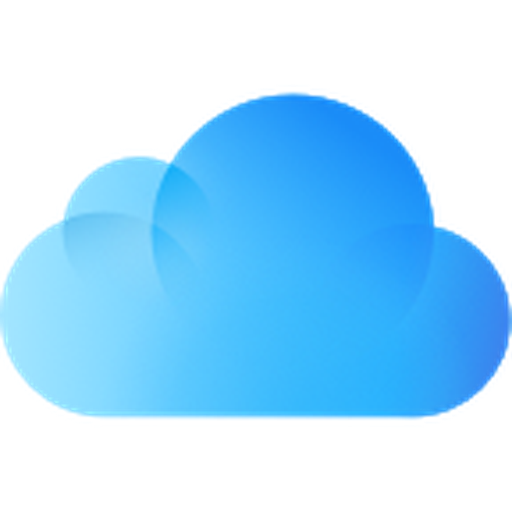
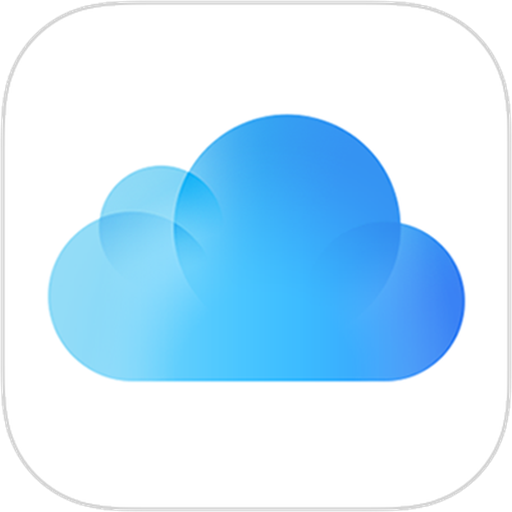
🎨 新增 4 个品牌图标 + 重命名中国移动云盘 + 替换 iCloud（用户提供素材）
新增品牌（图标由用户提供，按规范 `render()`：补方 → 512 LANCZOS → 乘 r=115 遮罩 → oxipng 无损压缩）
- Ubisoft（`icons/Game/Ubisoft/Ubisoft.png`）：育碧，独立图根（无 parent_brand）
- RockstarGames（`icons/Game/RockstarGames/RockstarGames.png`）：`parent_brand = TakeTwo`，
  Take-Two Interactive 作为「无图标父品牌」登记进 `parent_brands_without_icon`
  （对齐既有先例 `Steam` → `Valve`）
- TaobaoShangou（`icons/Alibaba/Taobao/TaobaoShangou/TaobaoShangou.png`）：淘宝闪购，
  `parent_brand = Taobao`；物理层级按同分类中间父品牌递归（Taobao 非 graph root 直系子品牌）
- MeituanFoodDelivery（`icons/Shopping/MeituanFoodDelivery/MeituanFoodDelivery.png`）：美团外卖，
  `parent_brand = Meituan`；**平铺**——`expected_icon_path()` §6 规则：graph root 的直系子品牌不嵌套
  （对齐 Apple → AppleMusic 先例；生成器在此处先行报错，路径已按引擎推导修正）

重命名（技术 ID 对齐官方英文名）
- `ChinaMobileDisk` → `ChinaMobileCloudDrive`：id / 目录 / 文件名同步；display_name 不变（中国移动云盘）
- 旧 ID 登记进 `scripts/legacy_map.py`（唯一来源）→ CI 第 10 组「Legacy paths」据此拦截残留引用
- **公开 URL 变化**：`icons/ChinaMobile/ChinaMobileDisk/ChinaMobileDisk.png`
  → `icons/ChinaMobile/ChinaMobileCloudDrive/ChinaMobileCloudDrive.png`
  （已记录到 `docs/migrations/url-migration.md`，下游 mihomo-rules 需同步）

资产替换（URL 不变）
- `icons/Apple/iCloud/iCloud.png`：换用 Apple 官方 squircle 资源。原资产是**无底云朵字形**
  （alpha>0 占比 50.5%，形态与全库统一口径不符）；新资产为官方圆角底 + 云朵，
  规范化后 512×512 RGBA / 遮罩外 alpha = 0
- 中国移动云盘同为设计更新：原为无底字形（占比 43.8%），新为白底 + 蓝色云字形

素材来源规格（已记录，便于将来换更高分辨率源）
- Ubisoft 512×512 PNG（自带 r≈76 圆角，遮罩后无透明缺口）
- Rockstar 900×900 PNG（满幅渐变）→ 512
- iCloud 400×400 PNG（Apple squircle）→ 512；中国移动云盘 1418×1419 PNG → 512
[…]

diff --git a/tests/test_phase3_hardening.py b/tests/test_phase3_hardening.py
@@ -296,6 +296,17 @@ class QualityNotesStatsTests(RepoFixture):
     def test_baseline_passes(self):
         self.assertEqual(self.validator().returncode, 0)
 
+    def _counts(self):
+        """当前仓库的 (PNG 数, RGBA 数)——夹具断言必须由磁盘推导，不得硬编码统计值。"""
+        files = list((self.repo / 'icons').rglob('*.png'))
+        rgba = 0
+        for f in files:
+            with open(f, 'rb') as fh:
+                head = fh.read(26)
+            if len(head) == 26 and head[25] == 6:
+                rgba += 1
+        return len(files), rgba
+
     def _patch(self, old, new):
         q = self.repo / NOTES_REL
         t = q.read_text(encoding='utf-8')
@@ -303,11 +314,14 @@ class QualityNotesStatsTests(RepoFixture):
         return self.write(NOTES_REL, t.replace(old, new))
 
     def test_count_drift_fails(self):
-        self._patch('**294 / 294 = 512×512**', '**293 / 293 = 512×512**')
+        n, _ = self._counts()
+        self._patch('**%d / %d = 512×512**' % (n, n), '**%d / %d = 512×512**' % (n - 1, n - 1))
         self.assert_validation_fails('尺寸行')
 
     def test_mode_drift_fails(self):
-        self._patch('RGBA 294（其余色型 0）', 'RGBA 294（其余色型 3）')
+        n, rgba = self._counts()
+        self._patch('RGBA %d（其余色型 %d）' % (rgba, n - rgba),
+                    'RGBA %d（其余色型 %d）' % (rgba, (n - rgba) + 3))
         self.assert_validation_fails('模式分布行')
 
     def test_volume_drift_fails(self):
@@ -328,17 +342,20 @@ class QualityNotesStatsTests(RepoFixture):
 
     def test_deleted_stat_line_makes_generator_fail(self):
         """统计行被删除 ⇒ 生成器必须失败（generated contract 不再静默通过）。"""
-        self._patch('| 尺寸 | **294 / 294 = 512×512**', '| 尺寸 | 见上')
+        n, _ = self._counts()
+        self._patch('| 尺寸 | **%d / %d = 512×512**' % (n, n), '| 尺寸 | 见上')
         self.assert_run_fails(self.updater(), '尺寸行')
 
     def test_generator_repairs_drift(self):
-        self._patch('**294 / 294 = 512×512**', '**1 / 1 = 512×512**')
-        self._patch('RGBA 294（其余色型 0）', 'RGBA 0（其余色型 294）')
+        n, rgba = self._counts()
+        self._patch('**%d / %d = 512×512**' % (n, n), '**1 / 1 = 512×512**')
+        self._patch('RGBA %d（其余色型 %d）' % (rgba, n - rgba),
+                    'RGBA 0（其余色型 %d）' % n)
         res = self.updater()
         self.assertEqual(res.returncode, 0, res.stdout + res.stderr)
         fixed = (self.repo / NOTES_REL).read_text(encoding='utf-8')
-        self.assertIn('**294 / 294 = 512×512**', fixed)
-        self.assertIn('RGBA 294（其余色型 0）', fixed)
+        self.assertIn('**%d / %d = 512×512**' % (n, n), fixed)
+        self.assertIn('RGBA %d（其余色型 %d）' % (rgba, n - rgba), fixed)
         self.assertEqual(self.validator().returncode, 0)
 
 

diff --git a/tests/test_hardening.py b/tests/test_hardening.py
@@ -156,13 +156,14 @@ class LegacyMapTests(unittest.TestCase):
         segs = set(legacy_path_segments())
         for s in ('DevOps', 'Drive', 'General', 'Tool'):
             self.assertIn(s, segs, '历史分类目录必须在 legacy map 中')
-        for s in ('PeacockTV', 'Podcasts', 'Twitter'):
+        for s in ('ChinaMobileDisk', 'PeacockTV', 'Podcasts', 'Twitter'):
             self.assertIn(s, segs, '历史品牌 ID 必须在 legacy map 中')
         self.assertNotIn('xAI', segs, 'xAI 已是当前 canonical ID，不得登记为 legacy 名')
         pats = set(legacy_scan_patterns())
         self.assertIn('icons/xAI/', pats, '旧 xAI 目录必须以完整前缀登记')
         self.assertNotIn('/xAI/', pats, '/xAI/ 段在 canonical 路径中合法，不得作为模式')
-        self.assertEqual(legacy_ids(), {'PeacockTV', 'Podcasts', 'Twitter'})
+        # 注册表只允许显式扩容：新增重命名必须同步改这一行（有意保留的摩擦）
+        self.assertEqual(legacy_ids(), {'ChinaMobileDisk', 'PeacockTV', 'Podcasts', 'Twitter'})
 
     def test_canonical_id_is_not_legacy(self):
         """§34：current canonical ID 绝不与 legacy ID 重叠。"""

diff --git a/scripts/legacy_map.py b/scripts/legacy_map.py
@@ -34,6 +34,7 @@ LEGACY_BRAND_IDS = {
     'PeacockTV': 'Peacock',
     'Podcasts': 'ApplePodcasts',
     'Twitter': 'X',
+    'ChinaMobileDisk': 'ChinaMobileCloudDrive',  # 2026-10-02 技术 ID 对齐官方名
 }
 
 # 旧目录前缀：旧目录名与当前 canonical 品牌 ID 同形，必须用完整前缀登记

diff --git a/README.md b/README.md
@@ -17,8 +17,8 @@
   <img src="https://img.shields.io/github/stars/Hawaiine/Oasisic-Icons?style=flat-square" alt="Stars">
   <img src="https://img.shields.io/github/last-commit/Hawaiine/Oasisic-Icons?style=flat-square" alt="Last Commit">
   <img src="https://img.shields.io/github/repo-size/Hawaiine/Oasisic-Icons?style=flat-square" alt="Repo Size">
-  <img src="https://img.shields.io/badge/icons-294-blue?style=flat-square" alt="Icons Count">
-  <img src="https://img.shields.io/badge/brands-294-green?style=flat-square" alt="Brands Count">
+  <img src="https://img.shields.io/badge/icons-298-blue?style=flat-square" alt="Icons Count">
+  <img src="https://img.shields.io/badge/brands-298-green?style=flat-square" alt="Brands Count">
   <img src="https://img.shields.io/badge/categories-42-orange?style=flat-square" alt="Categories Count">
 </p>
 
@@ -35,11 +35,11 @@
 
 ## 📖 简介 / Introduction
 
-**Oasisic-Icons** 是一套专为代理工具设计的策略组图标合集：当前共 **294** 个 PNG 图标，覆盖 **294** 个品牌，归入 **42** 个一级分类（其中 41 个活跃，`Finance` 为预留空分类）。
+**Oasisic-Icons** 是一套专为代理工具设计的策略组图标合集：当前共 **298** 个 PNG 图标，覆盖 **298** 个品牌，归入 **42** 个一级分类（其中 41 个活跃，`Finance` 为预留空分类）。
 
-**仓库统计口径 / Repository metrics**：SSOT entities **294** · canonical entities **235** · icon-backed entities **294** · PNG **294** · pending no-icon entities **0** · categories **42** · ecosystems **17**
+**仓库统计口径 / Repository metrics**：SSOT entities **298** · canonical entities **239** · icon-backed entities **298** · PNG **298** · pending no-icon entities **0** · categories **42** · ecosystems **17**
 
-本项目为独立图标仓库，当前 294 个图标均为 512×512 PNG（RGBA 模式），适配 Surge、Loon、Clash Meta / Mihomo、Stash、Quantumult X、Egern 等主流代理客户端。
+本项目为独立图标仓库，当前 298 个图标均为 512×512 PNG（RGBA 模式），适配 Surge、Loon、Clash Meta / Mihomo、Stash、Quantumult X、Egern 等主流代理客户端。
 
 > **画质规范（贡献与替换标准）**：512×512 方形 PNG，RGBA 模式，Apple 风格 squircle 圆角（圆角半径 ≈ 115px / 约 22.4%），保留原始底色。
 > 仓库内图标按该规范维护，均为 512×512、RGBA、保留原始底色，经 `scripts/optimize-icons.py` 无损重压缩；少量历史圆角边缘遗留项待处理，明细与遗留项见 [`docs/references/icon-quality-notes.md`](docs/references/icon-quality-notes.md)。
@@ -182,7 +182,7 @@ static=Netflix, HK, TW, JP, SG, img-url=https://raw.githubusercontent.com/Hawaii
 | 分类 | 说明 | 品牌数 | 图标数 |
 |---|---|---:|---:|
 | 🤖 AI | 人工智能服务与模型 | 11 | 11 |
-| 🏢 Alibaba | 阿里巴巴生态 | 9 | 9 |
+| 🏢 Alibaba | 阿里巴巴生态 | 10 | 10 |
 | 📦 Amazon | 亚马逊生态 | 6 | 6 |
 | 🍎 Apple | 苹果生态 | 13 | 13 |
 | 🔍 Baidu | 百度生态 | 4 | 4 |
@@ -198,7 +198,7 @@ static=Netflix, HK, TW, JP, SG, img-url=https://raw.githubusercontent.com/Hawaii
 | 📚 Education | 教育与学习平台 | 2 | 2 |
 | 💰 Finance | 金融理财 | 0 | 0 |
 | 📱 Meta | Meta 生态 | 6 | 6 |
-| 🎮 Game | 游戏平台与服务 | 3 | 3 |
+| 🎮 Game | 游戏平台与服务 | 5 | 5 |
 | 🔎 Google | Google 服务与生态 | 12 | 12 |
 | 🔌 Hardware | 硬件与消费电子设备 | 8 | 8 |
 | 🏥 Health | 健康与运动 | 1 | 1 |
@@ -212,7 +212,7 @@ static=Netflix, HK, TW, JP, SG, img-url=https://raw.githubusercontent.com/Hawaii
 | 💳 Payment | 支付与金融交易 | 5 | 5 |
 | ☎ PCCW | 电讯盈科生态 | 3 | 3 |
 | 🌐 Proxy | 代理线路与协议 | 4 | 4 |
-| 🛒 Shopping | 购物与电商 | 5 | 5 |
+| 🛒 Shopping | 购物与电商 | 6 | 6 |
 | 👥 Social | 社交媒体与社区 | 10 | 10 |
 | 🕹 Sony | 索尼生态 | 4 | 4 |
 | ⚡ Surge | Surge 应用图标 | 1 | 1 |
@@ -223,7 +223,7 @@ static=Netflix, HK, TW, JP, SG, img-url=https://raw.githubusercontent.com/Hawaii
 | 🧰 Utilities | 生产力工具与实用服务 | 9 | 9 |
 | 🎞 Warner Bros. Discovery | 华纳兄弟探索生态 | 3 | 3 |
 | 🛰 SpaceXAI | SpaceXAI 生态 | 4 | 4 |
-| **合计** | — | **294** | **294** |
+| **合计** | — | **298** | **298** |
 ### 分类体系原则（方案 C，2026-09-29）
 
 一级分类**不设中间层**：不设置 `Ecosystems / Services / Special` 等分类之上的中间层；分类之下的深度只由**真实父子层级**决定——直接父品牌是 category 根时保持 `icons/<分类>/<品牌>/`，直接父品牌本身也是中间品牌（同类且有自身图标）时嵌套为 `icons/<分类>/<中间父>/<品牌>/`。

diff --git a/docs/references/physical-hierarchy-audit.md b/docs/references/physical-hierarchy-audit.md
@@ -23,12 +23,13 @@ icons/<category>/<中间父…>/<id>/<id>.png           同类中间父品牌下
 | `Grok` | `xAI` | Grok → xAI → SpaceXAI | `SpaceXAI` | `icons/SpaceXAI/xAI/Grok/Grok.png` | `icons/SpaceXAI/xAI/Grok/Grok.png` | KEEP |
 | `Instagram` | `Facebook` | Instagram → Facebook → Meta | `Meta` | `icons/Meta/Facebook/Instagram/Instagram.png` | `icons/Meta/Facebook/Instagram/Instagram.png` | KEEP |
 | `Messenger` | `Facebook` | Messenger → Facebook → Meta | `Meta` | `icons/Meta/Facebook/Messenger/Messenger.png` | `icons/Meta/Facebook/Messenger/Messenger.png` | KEEP |
+| `TaobaoShangou` | `Taobao` | TaobaoShangou → Taobao → Alibaba | `Alibaba` | `icons/Alibaba/Taobao/TaobaoShangou/TaobaoShangou.png` | `icons/Alibaba/Taobao/TaobaoShangou/TaobaoShangou.png` | KEEP |
 | `Threads` | `Facebook` | Threads → Facebook → Meta | `Meta` | `icons/Meta/Facebook/Threads/Threads.png` | `icons/Meta/Facebook/Threads/Threads.png` | KEEP |
 | `WhatsApp` | `Facebook` | WhatsApp → Facebook → Meta | `Meta` | `icons/Meta/Facebook/WhatsApp/WhatsApp.png` | `icons/Meta/Facebook/WhatsApp/WhatsApp.png` | KEEP |
 | `YouTubeMusic` | `YouTube` | YouTubeMusic → YouTube → Google | `Google` | `icons/Google/YouTube/YouTubeMusic/YouTubeMusic.png` | `icons/Google/YouTube/YouTubeMusic/YouTubeMusic.png` | KEEP |
 | `iCloudPrivateRelay` | `iCloud` | iCloudPrivateRelay → iCloud → Apple | `Apple` | `icons/Apple/iCloud/iCloudPrivateRelay/iCloudPrivateRelay.png` | `icons/Apple/iCloud/iCloudPrivateRelay/iCloudPrivateRelay.png` | KEEP |
 
-多层关系（`child.parent_brand = P` 且 `P.parent_brand != null`）共 **7** 条。
+多层关系（`child.parent_brand = P` 且 `P.parent_brand != null`）共 **8** 条。
 
 ## 3. cross-category 父品牌（VALID_CROSS_CATEGORY，不迁移）
 
@@ -69,19 +70,20 @@ cross-category 关系共 **3** 条。
 | `SiriusXM` | `Pandora` |
 | `Snap` | `Snapchat` |
 | `TaiwanMobile` | `MyVideo` |
+| `TakeTwo` | `RockstarGames` |
 | `UNEXTHoldings` | `UNEXT` |
 | `Valve` | `Steam` |
 | `Xperi` | `TMDB` |
 | `ZhipuAI` | `GLM` |
 | `iCABLE` | `HOYTV` |
 
-无图标母公司共 **30** 个（登记于 `parent_brands_without_icon`）。
+无图标母公司共 **31** 个（登记于 `parent_brands_without_icon`）。
 
 ## 5. 生态矩阵（§47）
 
 | Ecosystem | Logical Root | Has Icon | Category | Canonical Descendants | Status |
 |:---|:---|:---|:---|:---|:---|
-| `Alibaba` | `Alibaba` | YES | `Alibaba` | 8 | Ecosystem |
+| `Alibaba` | `Alibaba` | YES | `Alibaba` | 9 | Ecosystem |
 | `Amazon` | `Amazon` | YES | `Amazon` | 5 | Ecosystem |
 | `Apple` | `Apple` | YES | `Apple` | 12 | Ecosystem |
 | `Baidu` | `Baidu` | YES | `Baidu` | 3 | Ecosystem |
@@ -103,8 +105,8 @@ cross-category 关系共 **3** 条。
 
 ## 6. 统计
 
-- canonical product brands：**235**
+- canonical product brands：**239**
 - canonical ecosystem entities：**1**
-- 物理父品牌节点：**26**
-- 深层嵌套品牌（路径 ≥ 5 段）：**7**
+- 物理父品牌节点：**28**
+- 深层嵌套品牌（路径 ≥ 5 段）：**8**
 - 生态根（含逻辑生态根）：**17**

diff --git a/docs/migrations/brand-migration.md b/docs/migrations/brand-migration.md
@@ -156,6 +156,24 @@
 | SINA | 新增（Social） | `icons/Social/SINA/SINA.png` | 新浪（Sina Corporation）公司品牌，用户提供的官方图标；白名单 `Sina` 移除，子品牌 Weibo 的 parent_brand 指向 SINA |
 | CATCHPLAYPlus | 重命名（原 CATCHPLAY） | `icons/Media/CATCHPLAY/CATCHPLAY.png` | `icons/Media/CATCHPLAYPlus/CATCHPLAYPlus.png` | 按全库 Plus 品牌命名惯例对齐（id/目录/文件名）；display_name 仍为「CATCHPLAY+」 |
 
+## 本轮增量：新增品牌与重命名（2026-10-02）
+
+> 4 个新增品牌（图标由用户提供，按规范 512×512 RGBA r=115 入库）+ 1 个技术 ID 重命名
+> （`ChinaMobileDisk` → `ChinaMobileCloudDrive`，目录/文件名同步）。**本轮不允许 XML 之外的资产被改**：
+> 除该重命名目录与用户提供的替换图（iCloud）外，0 个既有 PNG 被修改。
+
+| Brand | 变更 | 路径 | 理由 |
+|---|---|---|---|
+| ChinaMobileCloudDrive | 重命名（原 `ChinaMobileDisk`） | `icons/ChinaMobile/ChinaMobileCloudDrive/ChinaMobileCloudDrive.png` | 技术 ID 对齐官方英文名（China Mobile Cloud Drive）；display_name 不变（中国移动云盘）。旧 ID 登记于 `scripts/legacy_map.py`，**公开 URL 变化见 url-migration.md** |
+| Ubisoft | 新增（Game） | `icons/Game/Ubisoft/Ubisoft.png` | 育碧（Ubisoft）游戏发行商，用户提供的官方图标；独立品牌（图根，无 parent_brand） |
+| RockstarGames | 新增（Game） | `icons/Game/RockstarGames/RockstarGames.png` | Rockstar Games（《GTA》/《荒野大镖客》发行商）；`parent_brand = TakeTwo`，Take-Two Interactive 作为「无图标父品牌」登记进 `parent_brands_without_icon`（对齐 `Steam` → `Valve` 先例） |
+| TaobaoShangou | 新增（Alibaba） | `icons/Alibaba/Taobao/TaobaoShangou/TaobaoShangou.png` | 淘宝闪购（即时零售）；`parent_brand = Taobao`，物理层级按同分类中间父品牌递归（`icons/Alibaba/Taobao/<child>/`） |
+| MeituanFoodDelivery | 新增（Shopping） | `icons/Shopping/Meituan/MeituanFoodDelivery/MeituanFoodDelivery.png` | 美团外卖；`parent_brand = Meituan`，物理层级同上（`icons/Shopping/Meituan/<child>/`） |
+
+| 资产替换 | 路径 | 理由 |
+|---|---|---|
+| iCloud | `icons/Apple/iCloud/iCloud.png` | 换用 Apple 官方 squircle 资源（原资产为无底云朵字形，透明度占比 50.5%、形态不符全库统一口径）；新资产按 r=115 规范入库 |
+
 ## Final Seal Review 增量（2026-09-30）：X / Grok / SpaceXAI 关系厘清
 
 > 四个品牌变更 + 1 个公司品牌降级，全部为 pure move（git R100，SHA-256 不变）。

diff --git a/docs/references/brand-glossary.md b/docs/references/brand-glossary.md
@@ -1,6 +1,6 @@
 # 品牌术语表 / Brand Glossary
 > 本文件由 `config/brands.json` 派生（CI 校验一致性）。
-> 共 **294** 个品牌 / 文件夹标识。Technical ID 为目录名；Display Name 为官方真实品牌名。
+> 共 **298** 个品牌 / 文件夹标识。Technical ID 为目录名；Display Name 为官方真实品牌名。
 
 ## #
 
@@ -75,7 +75,7 @@
 | China | 中国 |
 | ChinaBroadnet | ChinaBroadnet |
 | ChinaMobile | ChinaMobile |
-| ChinaMobileDisk | 中国移动云盘 |
+| ChinaMobileCloudDrive | 中国移动云盘 |
 | ChinaTelecom | ChinaTelecom |
 | ChinaUnicom | ChinaUnicom |
 | Cloudflare | Cloudflare |
@@ -222,6 +222,7 @@
 | MangoTV | 芒果TV |
 | Manus | Manus |
 | Meituan | 美团 |
+| MeituanFoodDelivery | 美团外卖 |
 | Messenger | Messenger |
 | Meta | Meta |
 | MetaBrainz | MetaBrainz |
@@ -317,6 +318,7 @@
 | RedBullTV | Red Bull TV |
 | Reddit | Reddit |
 | Reject | Reject |
+| RockstarGames | Rockstar Games |
 | rednote | 小红书 |
 
 ## S
@@ -357,6 +359,7 @@
 | TVB | TVB |
 | TVer | TVer |
 | Taobao | 淘宝 |
+| TaobaoShangou | 淘宝闪购 |
 | Telegram | Telegram |
 | Tencent | 腾讯 |
 | TencentCloud | 腾讯云 |
@@ -380,6 +383,7 @@
 | URL | URL |
 | US | 美国 |
 | Uber | Uber |
+| Ubisoft | Ubisoft |
 | UnionPay | 银联 |
 
 ## V

diff --git a/docs/references/icon-quality-notes.md b/docs/references/icon-quality-notes.md
@@ -106,13 +106,13 @@
 
 | 项目 | 结果 |
 |------|------|
-| 尺寸 | **294 / 294 = 512×512**（已全量统一，2026-10-01 实测复扫） |
+| 尺寸 | **298 / 298 = 512×512**（已全量统一，2026-10-01 实测复扫） |
 | 圆角 | 统一 r=115px（≈22.4%，Apple squircle），四角透明（`alpha=0`） |
 | 用户手动更新的图标 | 新增图标（Qwen / Kimi / Manus / MiniMax / GLM 等）入库前须已合规 |
 | 规范化处理 | 历史 354 个文件由 `scripts/normalize-icons.py` 从原始尺寸（144×144 / 108×108 / 非方形）转换 |
 | 窄条字标 | 曾对 4 个窄条字标素材由 `scripts/normalize-strips.py` 处理（裁到内容后以对比色圆角底块承载）；此类素材后来大多已替换为官方方形源图 |
-| 体积 | 合计 ≈ 16.1 MB；平均 ≈54KB / 最大 292KB（298,829 B，`icons/Telecom/ChinaBroadnet/ChinaBroadnet.png`） |
-| 模式分布 | RGBA 294（其余色型 0） |
+| 体积 | 合计 ≈ 16.4 MB；平均 ≈54KB / 最大 292KB（298,829 B，`icons/Telecom/ChinaBroadnet/ChinaBroadnet.png`） |
+| 模式分布 | RGBA 298（其余色型 0） |
 
 ## 7. 需要留意
 

diff --git a/docs/migrations/url-migration.md b/docs/migrations/url-migration.md
@@ -184,6 +184,24 @@
 
 - `icons/Music/mora/` → `icons/SONY/mora/`
 
+## 本轮增量（2026-10-02）：重命名 + 新增（含嵌套层级）
+
+**重命名（旧 URL 失效，下游需同步）：**
+
+- `icons/ChinaMobile/ChinaMobileDisk/ChinaMobileDisk.png` → `icons/ChinaMobile/ChinaMobileCloudDrive/ChinaMobileCloudDrive.png`
+  （2026-10-02 技术 ID `ChinaMobileDisk` → `ChinaMobileCloudDrive`，目录/文件名同步；display_name 仍为「中国移动云盘」）
+
+**新增（此前无 URL）：**
+
+- `icons/Game/Ubisoft/Ubisoft.png`
+- `icons/Game/RockstarGames/RockstarGames.png`
+- `icons/Alibaba/Taobao/TaobaoShangou/TaobaoShangou.png`（同分类中间父品牌递归层级）
+- `icons/Shopping/Meituan/MeituanFoodDelivery/MeituanFoodDelivery.png`（同上）
+
+**资产替换（URL 不变，内容更新）：**
+
+- `icons/Apple/iCloud/iCloud.png`（换官方 squircle 资源）
+
 ### icons/Social/ →
 
 - `icons/Social/LinkedIn/` → `icons/Microsoft/LinkedIn/`

diff --git a/icons/Alibaba/README.md b/icons/Alibaba/README.md
@@ -1,6 +1,6 @@
 # 🏢 Alibaba / 阿里巴巴生态
 
-> 共 **9** 个图标，**9** 个品牌
+> 共 **10** 个图标，**10** 个品牌
 
 | 品牌 | 图标文件 |
 |:---|:---|
@@ -12,6 +12,7 @@
 | `Quark` | `Quark.png` |
 | `Qwen` | `Qwen.png` |
 | `Taobao` | `Taobao.png` |
+| `TaobaoShangou` | `TaobaoShangou.png` |
 | `Youku` | `Youku.png` |
 
 <!-- generated: ecosystem-tree (scripts/generate-category-readmes.sh) -->
@@ -25,5 +26,6 @@ Alibaba
 ├── Quark
 ├── Qwen
 ├── Taobao
+│   └── TaobaoShangou
 └── Youku
 ```

diff --git a/icons/Alibaba/Taobao/README.md b/icons/Alibaba/Taobao/README.md
@@ -1,0 +1,18 @@
+<!-- generated: parent-brand-readme (scripts/generate-category-readmes.sh) -->
+
+# 淘宝 / Alibaba 生态父品牌
+
+```text
+Brand:        Taobao
+Display Name: 淘宝
+Role:         Intermediate Parent Brand
+Parent:       Alibaba
+Graph Root:   Alibaba
+Ecosystem Root: Alibaba
+Ancestor Chain: Taobao → Alibaba
+Direct Children: 1
+```
+
+| Child | Display Name |
+|:---|:---|
+| `TaobaoShangou` | 淘宝闪购 |

diff --git a/icons/Shopping/Meituan/README.md b/icons/Shopping/Meituan/README.md
@@ -1,0 +1,18 @@
+<!-- generated: parent-brand-readme (scripts/generate-category-readmes.sh) -->
+
+# 美团 父品牌（Graph Root）
+
+```text
+Brand:        Meituan
+Display Name: 美团
+Role:         Graph Root Parent
+Parent:       —
+Graph Root:   Meituan
+Ecosystem Root: —
+Ancestor Chain: Meituan
+Direct Children: 1
+```
+
+| Child | Display Name |
+|:---|:---|
+| `MeituanFoodDelivery` | 美团外卖 |
